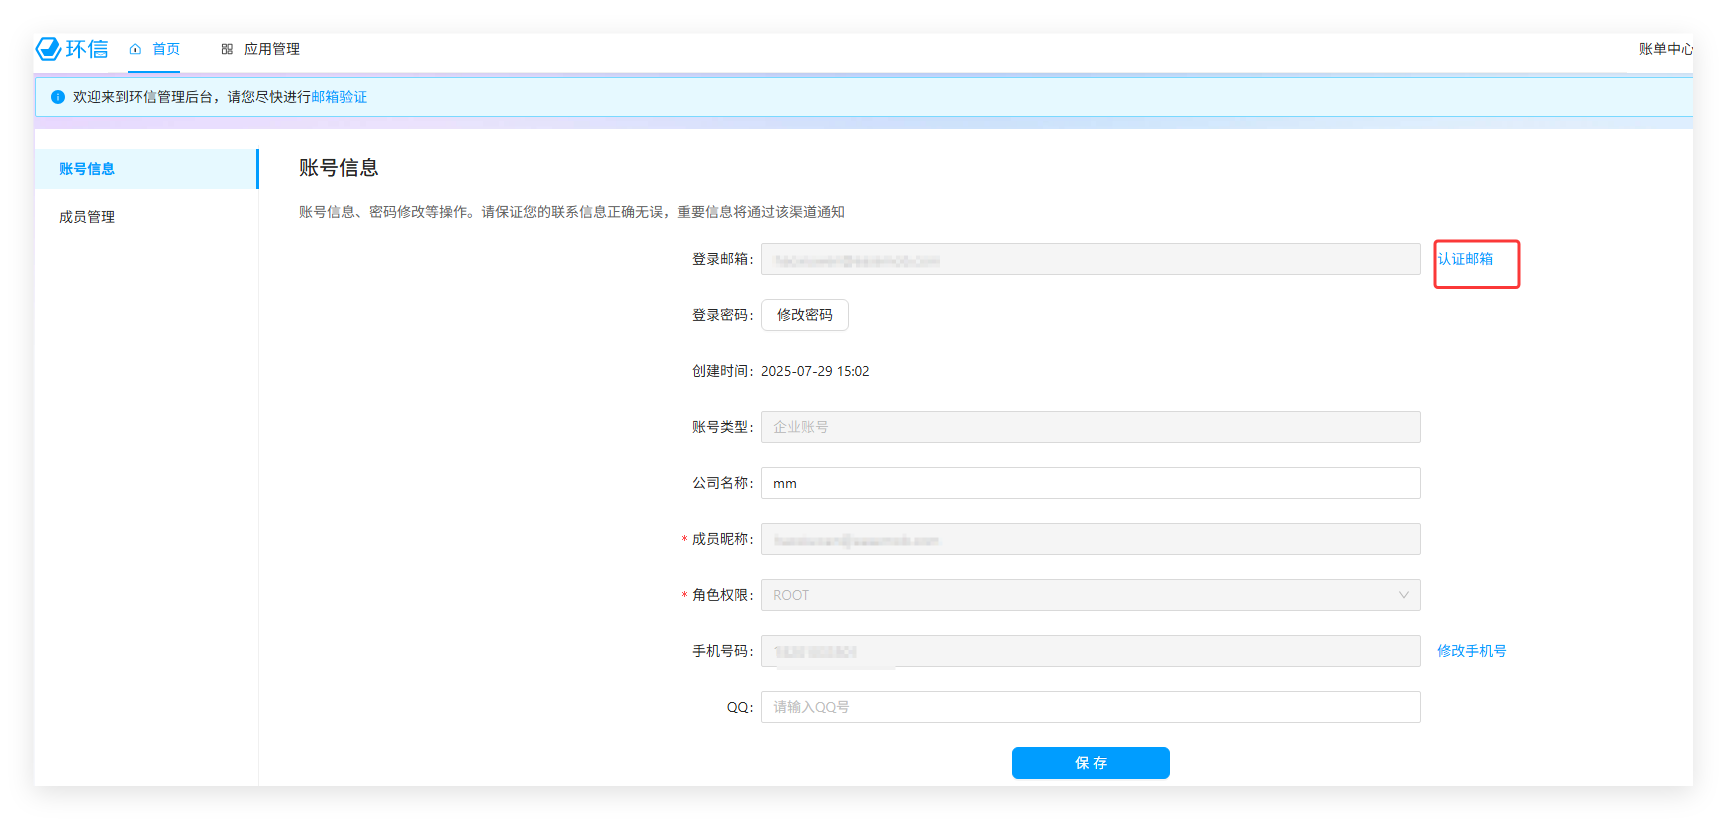
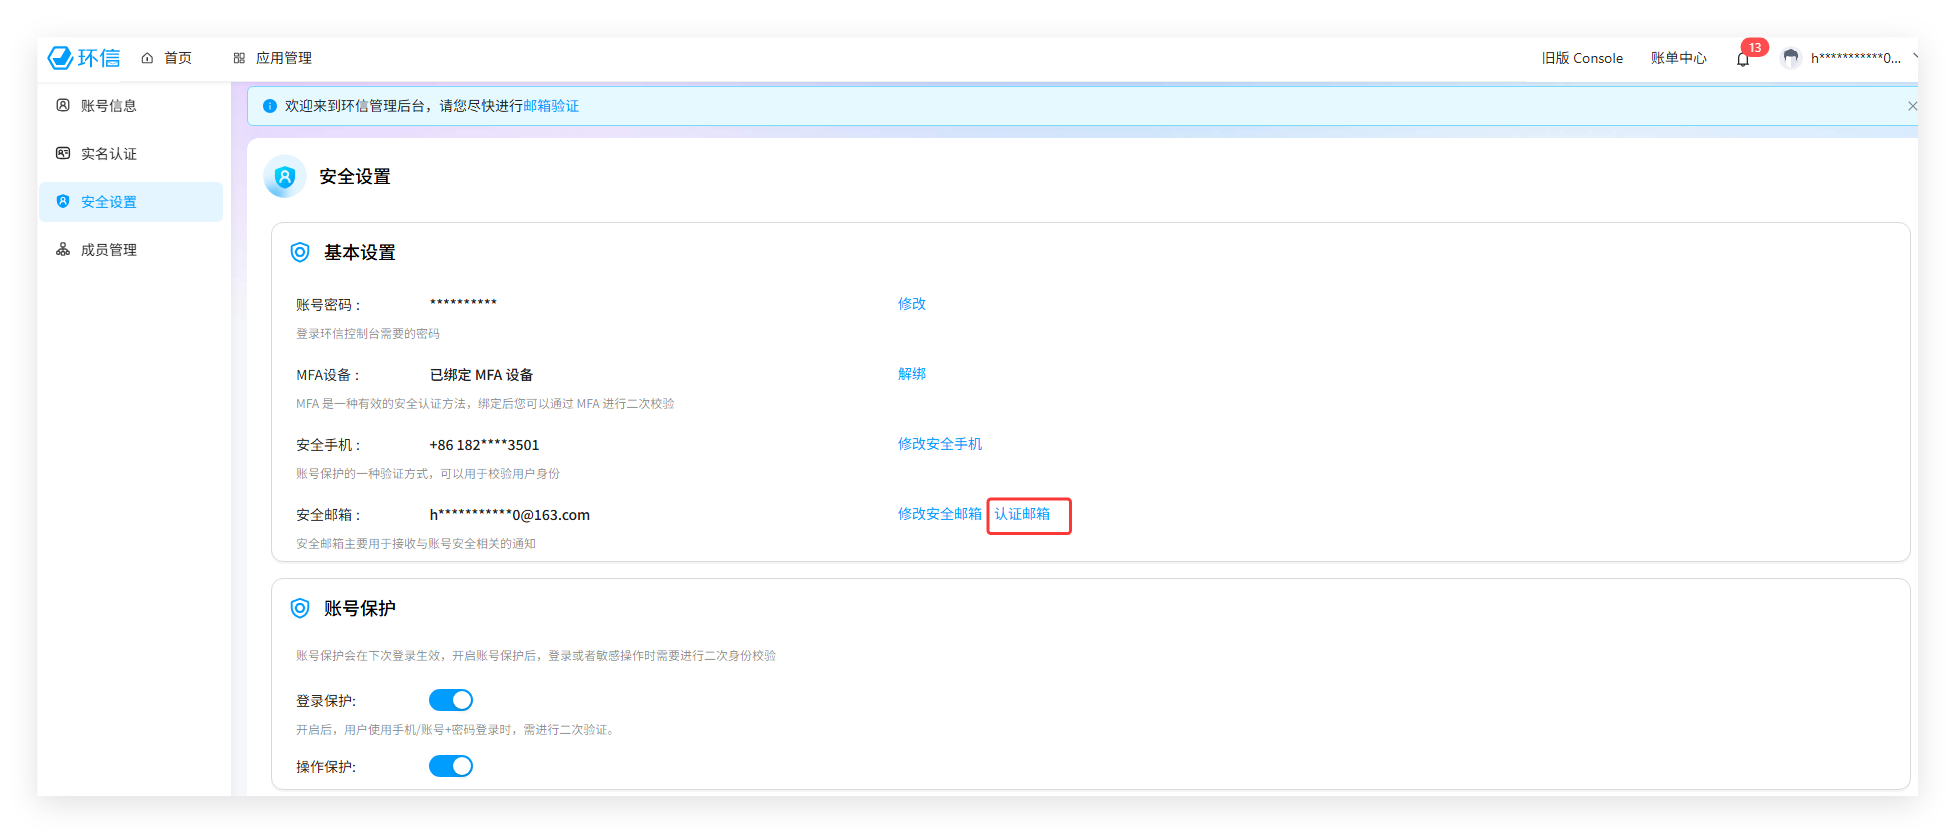
modify

diff --git a/docs/product/console/account_register.md b/docs/product/console/account_register.md
@@ -26,7 +26,7 @@
 
    ![img](/images/console/account_registration_mail_auth.png)
    
-8. 在 **账号信息** 页面点击 **认证邮箱**。
+8. 在 **安全设置** 页面点击 **认证邮箱**。
    
     ![img](/images/console/account_info.png)
 
